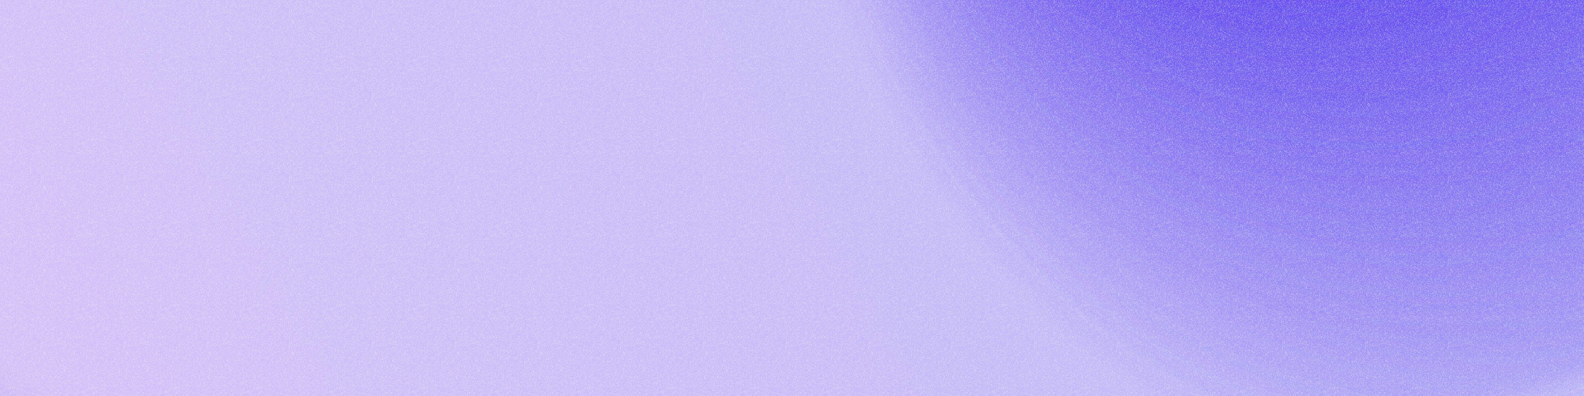
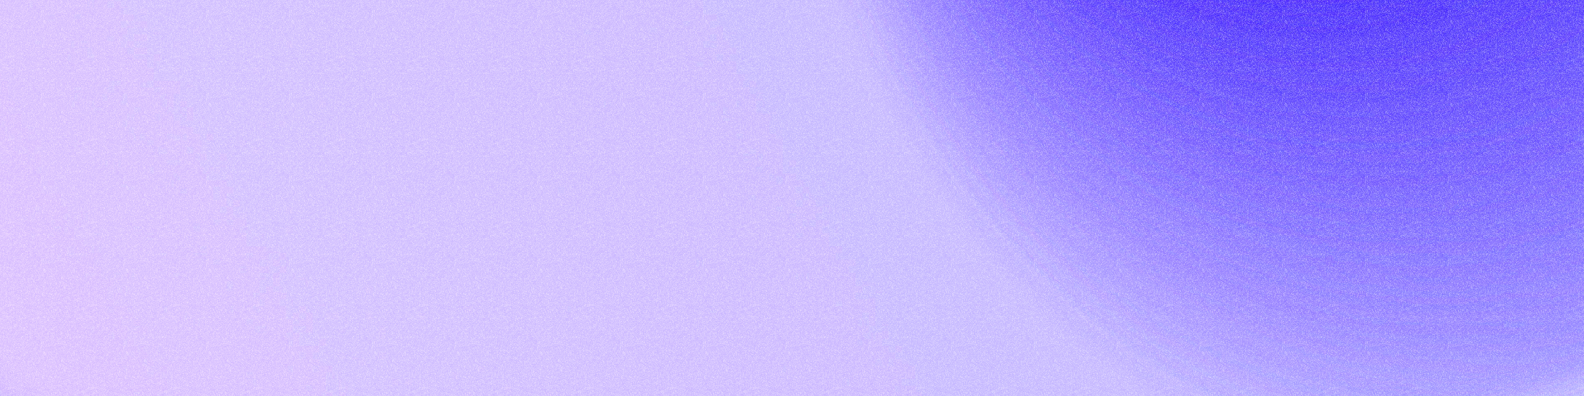
improve readability, design tweaks, file size improvements

Changed region(s): [[0.6806, 0.0, 1.0, 0.2727]]

diff --git a/web/styles/style.css b/web/styles/style.css
@@ -35,11 +35,9 @@
 /* Theme ------------------------------------------------------------------- */
 
 :root {
-    --palette-50: #f6f4ff;
-    --palette-200: #d6c4f8;
-    --palette-500: #7c69ee;
-    --palette-700: #5236c9;
-    --palette-900: #241a52;
+    /* The header bar's base colour: white, so nothing flashes while
+     * banner.png loads or if it fails. */
+    --header-base: #ffffff;
 
     /* Text is either pure black on the white page or pure white in the bar. */
     --color-text: #000000;
@@ -127,7 +125,7 @@ p:last-child {
 
 a:focus-visible,
 button:focus-visible {
-    outline: 2px solid var(--palette-700);
+    outline: 2px solid var(--color-text);
     outline-offset: 2px;
     border-radius: 0.25rem;
 }
@@ -152,7 +150,7 @@ button:focus-visible {
      * edge land exactly on the text column at every viewport width. */
     padding: 0 max(var(--content-gutter), calc((100% - var(--content-width)) / 2 + var(--content-gutter)));
     color: #ffffff;
-    background-color: var(--palette-700);
+    background-color: var(--header-base);
     background-image: url("../assets/images/banner.png");
     background-position: center;
     background-size: cover;
@@ -189,7 +187,7 @@ button:focus-visible {
     background-color: rgba(255, 255, 255, 0.16);
 }
 
-/* The bar is purple, so the global purple focus ring would disappear in it. */
+/* The dark bar would swallow the global black focus ring. */
 .site-header a:focus-visible {
     outline-color: #ffffff;
 }

diff --git a/web/index.html b/web/index.html
@@ -13,7 +13,7 @@
 <body>
     <header class="site-header">
         <a class="site-brand" href="#top">
-            <img class="site-logo" src="assets/images/logo_color_transparent.png" alt="Jonas Poxleitner" width="503" height="281">
+            <img class="site-logo" src="assets/images/logo.png" alt="Jonas Poxleitner" width="503" height="281">
         </a>
         <nav class="site-nav" aria-label="Page sections">
             <a href="#projects">Projects</a>
